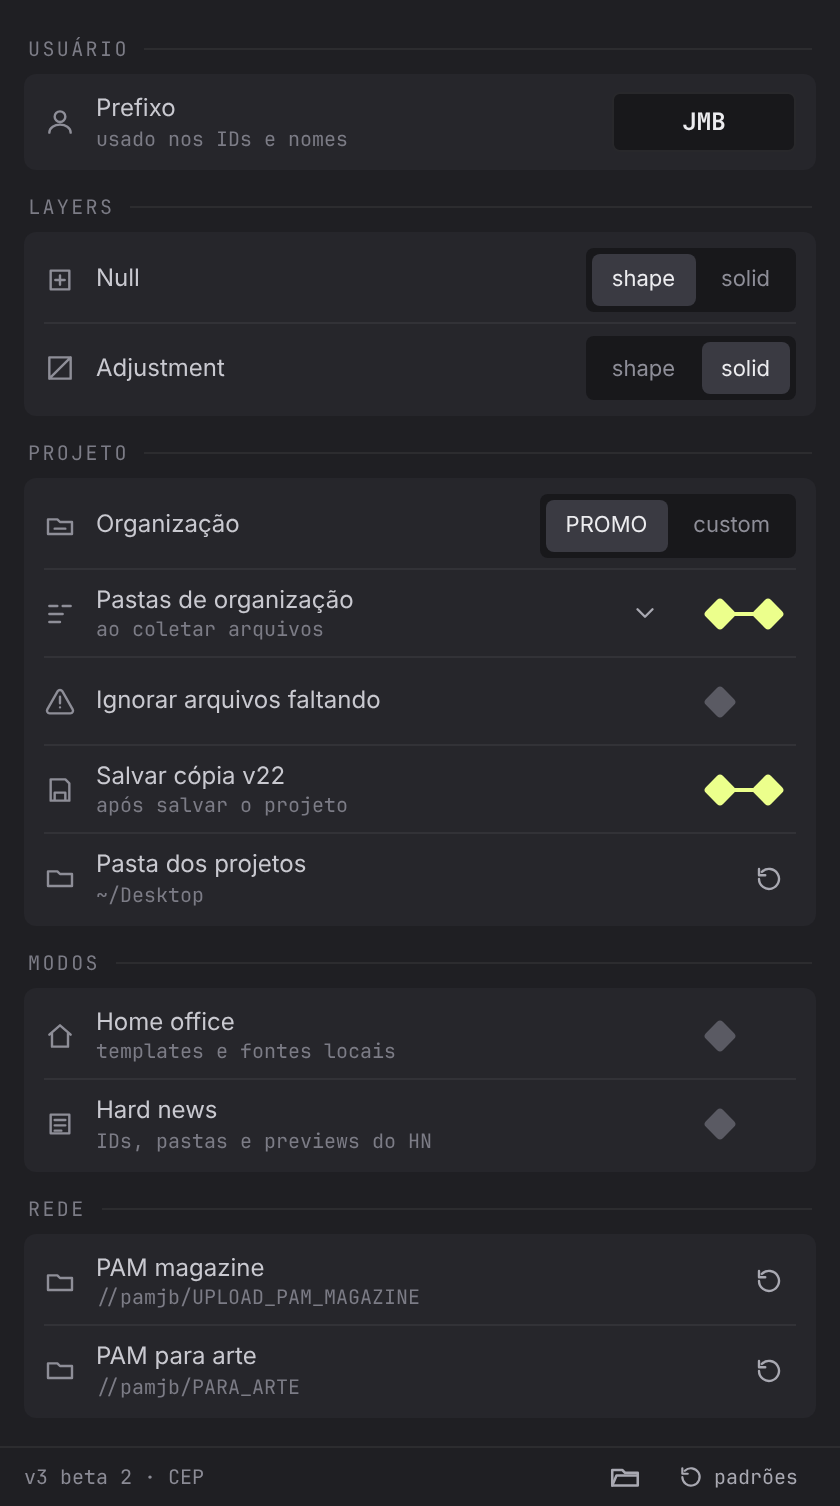
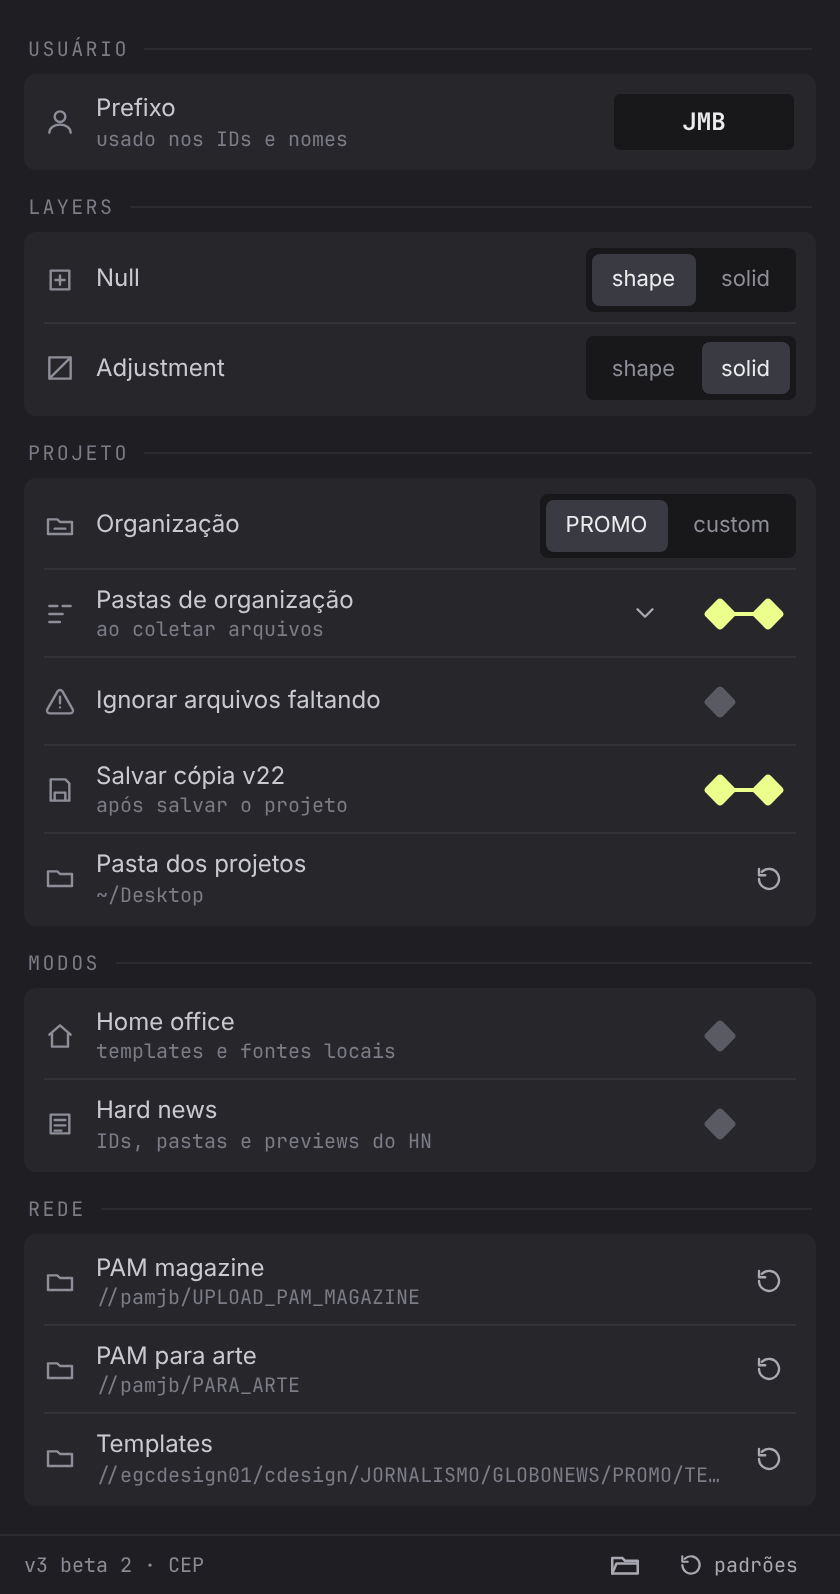
preferências: pasta de templates editável e envio das pastas de organização para a config geral
- rede: linha 'Templates' (folders.templatesArchPath) — escolher / voltar ao
  padrão; uma pasta própria vale sempre que existir (não depende do drive T:),
  senão a cópia local
- pastas de organização: o botão de restaurar virou ↑ enviar — as siglas que o
  usuário criou vão para config/pastas-organizacao.json (na pasta do PROMO
  GNEWS) e passam a ser padrão para todos (lidas na carga do host)
- host: prefs.publishOrgFolders, PGN.cfg

Claude-Session: https://claude.ai/code/session_01DrYHfURcmfXJEBB7vyaKqW

diff --git a/cep/client/windows/settings/settings.js b/cep/client/windows/settings/settings.js
@@ -3,7 +3,7 @@
 > PROMO GNEWS · preferences window
 ---------------------------------------------------------------
   host: prefs.get · prefs.set { patch } · prefs.reset · prefs.openFolder
-        prefs.pickFolder { key } · prefs.resetFolder { key } · prefs.resetOrgFolders
+        prefs.pickFolder { key } · prefs.resetFolder { key } · prefs.publishOrgFolders
   every change is saved immediately; panel-only options
   (labels, reduced motion) are broadcast with PGN.emit('prefs').
 */
@@ -327,18 +327,20 @@
 			tree.scrollTop = tree.scrollHeight;
 			mark();
 		});
-		var rst = h('button.rst', { title: 'restaurar a lista padrão' }, [UI.svg('0 0 24 24', { 'aria-hidden': 'true' }, [UI.path(I.reset)]), h('span', { text: 'padrão' })]);
+		// ↑ sends the siglas this user created to the shared settings ('config geral'): they
+		// become defaults for everybody. Two clicks, since it changes what the others see
+		var rst = h('button.rst', { title: 'enviar as pastas novas para a config geral\n(passam a ser padrão para todos)', 'aria-label': 'Enviar as pastas novas para a config geral' }, [UI.svg('0 0 24 24', { 'aria-hidden': 'true' }, [UI.path('M12 19V5M6 11l6-6 6 6')]), h('span', { text: 'enviar' })]);
 		var armT;
 		rst.addEventListener('click', function () {
 			if (!rst.classList.contains('arm')) {
-				rst.classList.add('arm'); rst.lastChild.textContent = 'confirmar?';
-				armT = setTimeout(function () { rst.classList.remove('arm'); rst.lastChild.textContent = 'padrão'; }, 3000);
+				rst.classList.add('arm'); rst.lastChild.textContent = 'enviar para todos?';
+				armT = setTimeout(function () { rst.classList.remove('arm'); rst.lastChild.textContent = 'enviar'; }, 3000);
 				return;
 			}
-			clearTimeout(armT); rst.classList.remove('arm'); rst.lastChild.textContent = 'padrão';
-			PGN.run('prefs.resetOrgFolders', {}).then(function (r) {
+			clearTimeout(armT); rst.classList.remove('arm'); rst.lastChild.textContent = 'enviar';
+			PGN.run('prefs.publishOrgFolders', {}).then(function (r) {
 				if (r.ok && r.data) {
-					if (r.data.defaults) defs = r.data.defaults;
+					if (r.data.defaults) { defs = r.data.defaults; if (P.defaults && P.defaults.folders) P.defaults.folders.promoSubPath = r.data.defaults; }
 					P.folders.promoSubPath = Object.assign({}, r.data.promoSubPath);
 					render(r.data.promoSubPath);
 				}
@@ -418,7 +420,8 @@
 			group('modos', [hoRow, hnRow], d += 40),
 			group('rede', [
 				folderRow(I.folder, 'PAM magazine', 'magazinePath'),
-				folderRow(I.folder, 'PAM para arte', 'artePath')
+				folderRow(I.folder, 'PAM para arte', 'artePath'),
+				folderRow(I.folder, 'Templates', 'templatesArchPath')
 			], d += 40),
 			group('efeitos', [EDS.fx = FxEditor(note, version)], d += 40),
 			group('atalhos', [EDS.link = LinksEditor(note, version)], d += 40),
@@ -499,7 +502,11 @@
 	// browser preview data
 	var MOCK_ORG = { INS: 'CANAL/institucional', DIG: 'CANAL/digital', PIL: 'CANAL/pilula', MKT: 'CANAL/marketing', NDL: 'VINHETAS/nunca desliga', BIP: 'VINHETAS/bip', ASE: 'VINHETAS/a seguir', EMN: 'JORNAIS/edicao da meia noite', EMP: 'JORNAIS/em ponto', CON: 'JORNAIS/conexao', JDE: 'JORNAIS/jornal das dez', ELE: 'FACTUAIS/eleicoes brasil', MUN: 'FACTUAIS/mundo', INT: 'PROGRAMAS/internacional', DOC: 'PROGRAMAS/documentario', MAC: 'MARCA E COMUNICACAO' };
 	PGN.mock('prefs.setOrgFolders', function (a) { var m = Object.assign({}, a.map); Object.keys(MOCK_ORG).forEach(function (k) { if (m[k] == null) m[k] = MOCK_ORG[k]; }); return { msg: 'Pastas de organização salvas', data: { promoSubPath: m, defaults: MOCK_ORG } }; }, 150);
-	PGN.mock('prefs.resetOrgFolders', function () { return { msg: 'Pastas de organização restauradas', data: { promoSubPath: Object.assign({}, MOCK_ORG), defaults: MOCK_ORG } }; }, 150);
+	PGN.mock('prefs.publishOrgFolders', function () {
+		var mine = (P && P.folders && P.folders.promoSubPath) || {}, n = 0;
+		Object.keys(mine).forEach(function (k) { if (MOCK_ORG[k] == null) { MOCK_ORG[k] = mine[k]; n++; } });
+		return { msg: n ? n + (n === 1 ? ' pasta enviada' : ' pastas enviadas') + ' para a config geral' : 'nenhuma pasta nova para enviar', data: { sent: n, promoSubPath: Object.assign({}, mine), defaults: MOCK_ORG } };
+	}, 150);
 	// 'efeitos' (browser preview)
 	var FXL = [['Blur & Sharpen', ['Camera Lens Blur:ADBE Camera Lens Blur', 'Compound Blur:ADBE Compound Blur', 'Gaussian Blur:ADBE Gaussian Blur 2', 'Directional Blur:ADBE Motion Blur', 'Radial Blur:ADBE Radial Blur']], ['Color Correction', ['Curves:ADBE CurvesCustom', 'Hue/Saturation:ADBE HUE SATURATION', 'Levels:ADBE Pro Levels2', 'Lumetri Color:ADBE Lumetri', 'Tint:ADBE Tint']], ['Generate', ['Fill:ADBE Fill', 'Gradient Ramp:ADBE Ramp', 'Stroke:ADBE Paint']], ['Noise & Grain', ['Add Grain:VISINF Grain Implant', 'Fractal Noise:ADBE Fractal Noise']], ['Perspective', ['3D Glasses:ADBE 3D Glasses2', 'Drop Shadow:ADBE Drop Shadow']], ['Stylize', ['Glow:ADBE Glo2', 'Mosaic:ADBE Mosaic']]];
 	var FX_ALL = []; FXL.forEach(function (c) { c[1].forEach(function (e) { var p = e.split(':'); FX_ALL.push({ n: p[0], m: p[1], c: c[0] }); }); });
@@ -527,7 +534,7 @@
 	PGN.mock('links.pick', function () { return { data: { path: '/Users/voce/Desktop/projetos' } }; }, 200);
 
 	PGN.mock('prefs.get', function () {
-		return { data: { version: 'v3 beta 2', userPrefix: 'JMB', selection: { nullType: 0, adjType: 1, projectMode: 0 }, orgFolders: true, ignoreMissing: false, saveAsV22: true, homeOffice: false, hardNews: false, showLabels: true, devMode: false, folders: { projPath: '~/Desktop', magazinePath: '//pamjb/UPLOAD_PAM_MAGAZINE', artePath: '//pamjb/PARA_ARTE', promoSubPath: Object.assign({}, MOCK_ORG, { JDE: 'JORNAIS/jornal das 10', XYZ: 'CANAL/especiais' }) }, defaults: { folders: { promoSubPath: MOCK_ORG } }, layerTypes: ['shape layer', 'solid layer'], projectModes: ['PROMO', 'custom'] } };
+		return { data: { version: 'v3 beta 2', userPrefix: 'JMB', selection: { nullType: 0, adjType: 1, projectMode: 0 }, orgFolders: true, ignoreMissing: false, saveAsV22: true, homeOffice: false, hardNews: false, showLabels: true, devMode: false, folders: { projPath: '~/Desktop', magazinePath: '//pamjb/UPLOAD_PAM_MAGAZINE', artePath: '//pamjb/PARA_ARTE', templatesArchPath: '//egcdesign01/cdesign/JORNALISMO/GLOBONEWS/PROMO/TEMPLATES', promoSubPath: Object.assign({}, MOCK_ORG, { JDE: 'JORNAIS/jornal das 10', XYZ: 'CANAL/especiais' }) }, defaults: { folders: { promoSubPath: MOCK_ORG } }, layerTypes: ['shape layer', 'solid layer'], projectModes: ['PROMO', 'custom'] } };
 	}, 200);
 	PGN.mock('prefs.set', function () { return { msg: 'Preferências salvas' }; }, 150);
 

diff --git a/cep/host/platform.jsx b/cep/host/platform.jsx
@@ -786,6 +786,15 @@ PGN_override('updateFolderPaths', function () {
 		templatesPath = templatesLocalPath;
 		fontsPath = fontsLocalPath;
 	}
+	// a templates folder chosen in the preferences doesn't depend on the cdesign share:
+	// it is used whenever it exists (local copy otherwise)
+	try {
+		var own = PGN.net.unc.templatesArchPath;
+
+		if (!homeOffice && own && own != defPrefsObj.folders.templatesArchPath) {
+			templatesPath = PGN.net.exists(own) ? templatesArchPath : templatesLocalPath;
+		}
+	} catch (err) { }
 	templatesFolder = new Folder(templatesPath);
 	tempFolder = new Folder(tempPath);
 	fontsFolder = new Folder(fontsPath);
@@ -796,7 +805,74 @@ PGN_override('loadDefaultPrefs', function () {
 	PGN.classic.loadDefaultPrefs();
 	PGN_dropRemovedSubPaths();
 	PGN.net.localPrefs();
+	if (PGN_applyTemplatesPref()) updateFolderPaths();
 });
+
+// the network templates folder is a preference (folders.templatesArchPath): the classic
+// global follows it. returns true when the path changed (the caller refreshes the folders)
+function PGN_applyTemplatesPref() {
+	try {
+		var tp = JSONPrefsObj.folders.templatesArchPath;
+
+		if (typeof tp != 'string' || tp == '') return false;
+		var loc = PGN.net.local(tp);
+		var changed = templatesArchPath != loc;
+
+		PGN.net.unc.templatesArchPath = tp;
+		templatesArchPath = loc;
+		return changed;
+	} catch (err) { }
+	return false;
+}
+
+/*
+  shared settings ('config geral'): <PROMO GNEWS folder>/config, next to cep/ and source/.
+  pastas-organizacao.json → { SIGLA: 'PASTA/subpasta' }: siglas added there become defaults
+  for everybody (read at load; sent from the preferences with prefs.publishOrgFolders).
+*/
+PGN.cfg = {
+	orgFile: function () {
+		return new File(PGN_srcDir.fsName + '/../config/pastas-organizacao.json');
+	},
+
+	readOrg: function () {
+		var f = PGN.cfg.orgFile();
+		var out = {};
+
+		if (!f.exists) return out;
+		try {
+			f.encoding = 'UTF-8';
+			var o = JSON.parse(readFileContent(f));
+
+			for (var k in o) {
+				if (!o.hasOwnProperty(k)) continue;
+				var key = String(k).toUpperCase().replace(/[^A-Z0-9]/g, '');
+				var val = String(o[k]).replace(/\\/g, '/').replace(/^\/+|\/+$/g, '').replace(/\/{2,}/g, '/');
+
+				if (key != '' && val != '') out[key] = val;
+			}
+		} catch (err) { }
+		return out;
+	},
+
+	// shared siglas → defaults (the ones the code already has win), then into the user's
+	// list like any other default (the ones the user removed stay removed)
+	loadOrg: function () {
+		try {
+			var shared = PGN.cfg.readOrg();
+			var defs = defPrefsObj.folders.promoSubPath;
+			var mine = JSONPrefsObj.folders.promoSubPath;
+
+			for (var k in shared) {
+				if (!shared.hasOwnProperty(k)) continue;
+				if (!defs.hasOwnProperty(k)) defs[k] = shared[k];
+				if (!mine.hasOwnProperty(k)) mine[k] = shared[k];
+			}
+			promoSubPath = mine;
+			PGN_dropRemovedSubPaths();
+		} catch (err) { }
+	}
+};
 
 // org. folders: the classic loader puts back every missing default sigla; the settings
 // window keeps the default siglas the user removed in folders.removedSubPath...
@@ -831,6 +907,14 @@ PGN_dropRemovedSubPaths();
 */
 
 (function () {
+	// the default of the templates folder preference is the classic network path
+	if (!defPrefsObj.folders.hasOwnProperty('templatesArchPath')) defPrefsObj.folders.templatesArchPath = templatesArchPath;
+	if (typeof JSONPrefsObj.folders.templatesArchPath != 'string' || JSONPrefsObj.folders.templatesArchPath == '') JSONPrefsObj.folders.templatesArchPath = defPrefsObj.folders.templatesArchPath;
+	var tplChanged = JSONPrefsObj.folders.templatesArchPath != templatesArchPath;
+
+	templatesArchPath = JSONPrefsObj.folders.templatesArchPath;
+	PGN.cfg.loadOrg();
+
 	var names = ['tAdd', 'hnPath', 'utiPath', 'promoInsPath', 'basesPath', 'promoArcPath', 'templatesArchPath', 'fontsArchPath'];
 
 	for (var i = 0; i < names.length; i++) {
@@ -843,6 +927,9 @@ PGN_dropRemovedSubPaths();
 	if (PGN.sys.isMac) {
 		// /Volumes form, no mounting (no login dialog at startup)...
 		PGN.net.refresh();
+	} else if (tplChanged) {
+		// a templates folder of the user's own: the classic paths were computed before it
+		updateFolderPaths();
 	} else if (!homeOffice && templatesPath == templatesLocalPath) {
 		// the classic updateFolderPaths already checked the share (and alerted)...
 		PGN.net.offline = 'rede indispon\u00EDvel \u00B7 drive T: (cdesign) fora do ar \u00B7 usando templates e fontes locais \u00B7 em casa: ligue o modo home office nas prefer\u00EAncias';

diff --git a/cep/host/tools/windows.jsx b/cep/host/tools/windows.jsx
@@ -591,7 +591,7 @@ PGN.register('fonts.openFolder', function (args) {
 PGN.prefs = {
 	layerTypes: ['shape layer', 'solid layer'],
 	projectModes: ['PROMO', 'custom'],
-	folderKeys: ['projPath', 'magazinePath', 'artePath'],
+	folderKeys: ['projPath', 'magazinePath', 'artePath', 'templatesArchPath'],
 
 	// recursive merge (arrays and values are replaced)...
 	merge: function (dst, src) {
@@ -634,6 +634,12 @@ PGN.prefs = {
 		if (key == 'artePath') artePath = localPath;
 		JSONPrefsObj.folders[key] = path;
 		savePrefs();
+		// the network templates folder: the windows list from the new place right away
+		if (key == 'templatesArchPath') {
+			PGN.net.unc.templatesArchPath = path;
+			templatesArchPath = localPath;
+			updateFolderPaths();
+		}
 	}
 };
 
@@ -767,6 +773,41 @@ PGN.register('prefs.resetOrgFolders', function (args) {
 	promoSubPath = JSONPrefsObj.folders.promoSubPath;
 
 	return { msg: 'Pastas de organiza\u00E7\u00E3o restauradas', data: { promoSubPath: PGN.win.clone(promoSubPath), defaults: PGN.win.clone(defPrefsObj.folders.promoSubPath) } };
+});
+
+// publishOrgFoldersBtn (↑): the siglas the user created go to the shared settings
+// ('config geral'), and become defaults for everybody from their next start...
+PGN.register('prefs.publishOrgFolders', function (args) {
+	var defs = defPrefsObj.folders.promoSubPath;
+	var mine = JSONPrefsObj.folders.promoSubPath;
+	var fresh = {};
+	var count = 0;
+
+	for (var k in mine) {
+		if (!mine.hasOwnProperty(k) || defs.hasOwnProperty(k)) continue;
+		fresh[k] = mine[k];
+		count++;
+	}
+	if (count == 0) return { msg: 'nenhuma pasta nova para enviar', data: { sent: 0, promoSubPath: PGN.win.clone(mine), defaults: PGN.win.clone(defs) } };
+
+	var f = PGN.cfg.orgFile();
+	var shared = PGN.cfg.readOrg(); // what others sent meanwhile is kept
+
+	for (var n in fresh) {
+		if (fresh.hasOwnProperty(n)) shared[n] = fresh[n];
+	}
+	if (!createPath(f.parent.fsName)) PGN.fail('n\u00E3o foi poss\u00EDvel criar a pasta da config geral: ' + f.parent.fsName);
+	PGN.writeJSON(f, shared, true);
+
+	PGN.prefs.detach();
+	defs = defPrefsObj.folders.promoSubPath;
+	for (var s in fresh) {
+		if (fresh.hasOwnProperty(s)) defs[s] = fresh[s];
+	}
+	return {
+		msg: PGN.n(count, 'pasta enviada', 'pastas enviadas') + ' para a config geral',
+		data: { sent: count, promoSubPath: PGN.win.clone(JSONPrefsObj.folders.promoSubPath), defaults: PGN.win.clone(defs) }
+	};
 });
 
 // org. folders editor (settings window): replaces the whole sigla → sub path map...

diff --git a/cep/client/windows/settings/settings.css b/cep/client/windows/settings/settings.css
@@ -41,7 +41,7 @@
 .rst { height: 26px; padding: 0 9px; border-radius: var(--r); font: 10px var(--mono); color: #A9A9B2; display: inline-flex; align-items: center; gap: 5px; transition: background .2s, color .2s; }
 .rst:hover { background: #2A2A2F; color: var(--tx); }
 .rst svg { width: 13px; height: 13px; fill: none; stroke: currentColor; stroke-width: 2; stroke-linecap: round; stroke-linejoin: round; }
-.rst.arm { background: rgba(255, 107, 107, .16); color: #FFB3B2; animation: nope .4s ease; }
+.rst.arm { background: var(--acc); color: var(--bg); }
 
 /* clickable path (picks a folder) */
 .lb.pick { text-align: left; margin: 0 -6px; padding: 5px 6px; border-radius: var(--r); transition: background .2s; }

diff --git a/README.md b/README.md
@@ -410,8 +410,8 @@ Abra pelo último botão do rodapé. As mudanças valem na hora, sem botão de s
 - **usuário** — o prefixo usado nos IDs e nos nomes.
 - **modos** — **home office** usa templates e fontes locais e apaga os atalhos de rede; **hard news** troca IDs, pastas e previews para o padrão do HN.
 - **layers** — null e camada de ajuste em solid ou shape.
-- **projeto** — pastas de organização (siglas e pastas, editáveis), ignorar arquivos faltando ao coletar, pasta dos projetos.
-- **rede** — pastas do PAM (para arte, magazine).
+- **projeto** — pastas de organização (siglas e pastas, editáveis), ignorar arquivos faltando ao coletar, pasta dos projetos. No editor das pastas, a seta **↑ enviar** manda as siglas que você criou para a configuração geral: elas passam a ser padrão para toda a equipe (cada um recebe ao abrir o After Effects de novo).
+- **rede** — pastas do PAM (para arte, magazine) e a pasta de **templates**. Clique no caminho para escolher outra pasta; a seta ao lado volta ao padrão. Uma pasta de templates própria é usada sempre que existir; se não existir, vale a cópia local.
 - **efeitos**, **atalhos** e **paleta** — o que a barra mostra nessas seções.
 - **painel** — rótulos no painel largo, animações reduzidas, ferramentas de dev.
 

diff --git a/cep/README.md b/cep/README.md
@@ -18,6 +18,7 @@ cep/
   scripts/                   instaladores de desenvolvimento (macOS / Windows)
 source/                      globals + bibliotecas usadas pelo host (funções, expressões, shape templates, rigs)
 downloads/                   templates, fontes e presets do AME baixados pelo host quando faltam
+config/                      configuração geral, compartilhada por todos (pastas-organizacao.json: siglas padrão enviadas pelas preferências)
 tools/                       build-cep.js (pacote / instalação de dev) · gnews-logo.js (logo animada do painel)
                              diagnostico.jsx (lista as cópias instaladas e quais ainda têm código antigo)
                              doc-icons.js · doc-shots.js · doc-gifs.js (ícones, capturas e gifs do README, gerados da própria interface)
